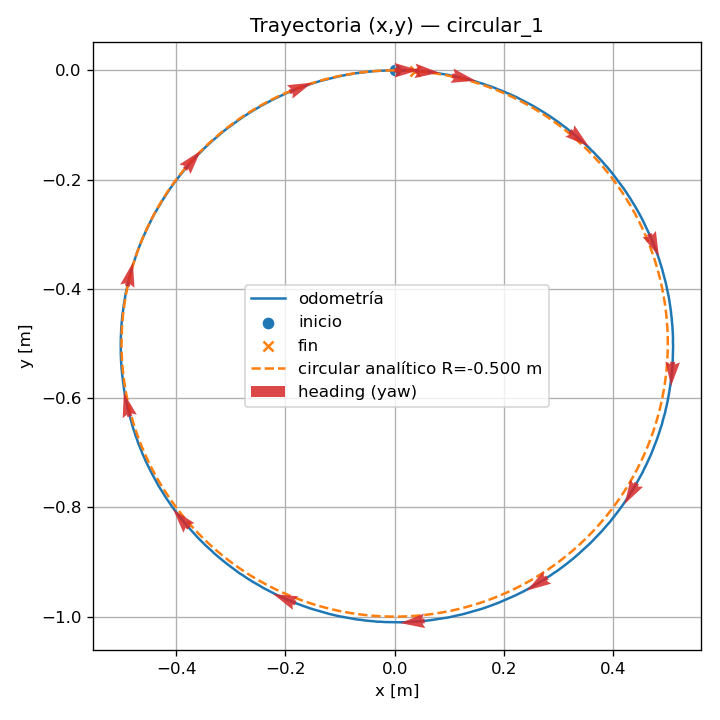
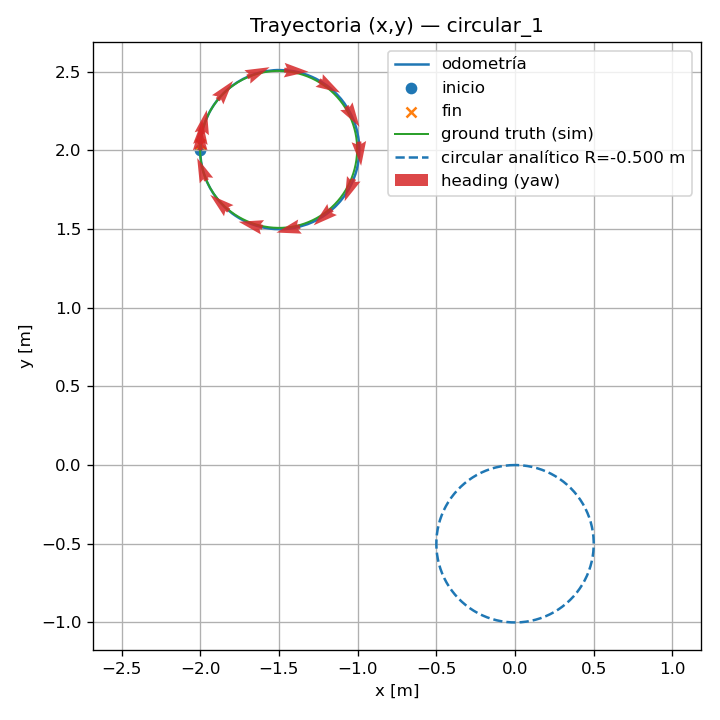
modulo 1: xy_path con GT overlay y transform a frame map
- plot_run.py: extract_gt_pose() reconstruye base_link_gt en map desde /tf
- extract_map_odom_offset() lee el offset map->odom del bag
- apply_map_odom_offset() traslada la odom al frame map para overlays
- Los 5 experimentos de modulo 1 (straffing, circular x2, constante x2)
  regenerados con odom vs GT vs analitico en el mismo cuadro.

Claude-Session: https://claude.ai/code/session_01C9iZpdEMchZ66QQeydNVvV

diff --git a/scripts/plot_run.py b/scripts/plot_run.py
@@ -6,9 +6,14 @@ Uso:
 
 Lee <dir>/manifest.yaml y <dir>/bag/, y escribe PNGs a <dir>/plots/.
 Los plots dependen de `cmd_source.tipo` en el manifest:
-  - open_loop_twist  → xy_path, body_velocity, odom_vs_cmd (módulo 1).
+  - open_loop_twist  → xy_path, body_velocity, odom_vs_cmd, wheel_velocities (módulo 1).
   - closed_loop_launch → módulo 1 + tracking_error, yaw_error, goal_pose_vs_pose
                           (módulo 2, requiere /robot/trajectory en el bag).
+
+xy_path dibuja la pose integrada por odometría. Si el bag contiene /tf con un
+TF `child=base_link_gt` (sim lo publica si grabamos /tf y /tf_static), suma como
+overlay la trayectoria ground truth reconstruida en frame `map` — la brecha
+odometría↔GT es exactamente el drift que motiva el EKF del módulo 3.
 
 Requiere: numpy, matplotlib, pyyaml, y las libs de ROS 2 Humble
 (rosbag2_py, rclpy.serialization, rosidl_runtime_py), por lo que hay que
@@ -41,6 +46,13 @@ except ImportError as e:
 
 REF_TRAJ_TOPIC = "/robot/trajectory"
 GOAL_POSE_TOPIC = "/goal_pose"
+TF_TOPICS = ("/tf", "/tf_static")
+
+# Frame del ground truth que publica CoppeliaSim. CLAUDE.md §"Simulator interface" lo
+# establece: el sim mantiene map → odom (identidad) y odom → base_link_gt como cadena
+# paralela a la que nuestra odometría integra (odom → base_link). Lo usamos SOLO para
+# evidencia (plots, métricas) — nunca como feedback de control (ídem consigna).
+GT_CHILD_FRAME = "base_link_gt"
 
 # Ruedas: convención del proyecto — MultiEncoderTicks.ticks[i] con i en 0..3 =
 # [FL, FR, RL, RR]. Los topics de velocidad angular comandada tienen esa nomenclatura.
@@ -196,6 +208,132 @@ def extract_wheel_encoder_velocities(entries):
     return result
 
 
+def extract_gt_pose(tf_entries, tf_static_entries):
+    """Reconstruye la pose GT en frame map a partir de /tf y /tf_static.
+
+    Devuelve (ts, xs, ys, yaws) con la pose de `base_link_gt` expresada en `map`.
+
+    Convención de la escena (ver CLAUDE.md §"Simulator interface"):
+      map → odom          (publicada por el sim; estática o ~6 Hz dinámica)
+      odom → base_link_gt (publicada ~10 Hz por el sim)
+
+    Componemos la cadena combinando /tf (dinámico) y /tf_static. Para cada
+    arista mantenemos la "última vista": esto maneja tanto el caso estático
+    puro como el caso en el que map→odom venga por /tf como en nuestro sim.
+
+    Si no aparece ningún TF con child == base_link_gt, devolvemos arrays vacíos y
+    el caller decide si avisar al usuario.
+    """
+    # Snapshot de la última TF vista para cada arista. Las estáticas se cargan
+    # primero; las dinámicas las van pisando si llegan (lo deseado).
+    latest = {}  # (parent, child) -> TransformStamped
+    for _, msg in tf_static_entries:
+        for tr in msg.transforms:
+            latest[(tr.header.frame_id, tr.child_frame_id)] = tr
+
+    def compose_to_map(parent, tx, ty, yaw):
+        """Si parent != map, camina hacia atrás por el `latest` hasta llegar a `map`.
+        Devuelve (x_map, y_map, yaw_map) o None si la cadena no se cierra."""
+        x, y, th = tx, ty, yaw
+        current = parent
+        for _ in range(6):  # tope de seguridad por si hay ciclo o cadena muy larga
+            if current == "map":
+                return x, y, th
+            # Buscamos la última TF <algo> → current conocida.
+            found = None
+            for (p, c), tr in latest.items():
+                if c == current:
+                    found = (p, tr)
+                    break
+            if found is None:
+                return None
+            p, tr = found
+            # pose_in_p = T_p_current · pose_in_current
+            c, s = math.cos(_tf_yaw(tr)), math.sin(_tf_yaw(tr))
+            x_new = tr.transform.translation.x + c * x - s * y
+            y_new = tr.transform.translation.y + s * x + c * y
+            th += _tf_yaw(tr)
+            x, y = x_new, y_new
+            current = p
+        return None
+
+    ts, xs, ys, yaws = [], [], [], []
+    for t_bag, msg in tf_entries:
+        # Primero pisamos el snapshot con todo lo que trae este TFMessage.
+        # Hacemos esto ANTES de procesar las entradas de GT en este mismo
+        # mensaje: si el sim publica map→odom en el mismo tick que odom→GT,
+        # queremos usar el map→odom actualizado.
+        for tr in msg.transforms:
+            latest[(tr.header.frame_id, tr.child_frame_id)] = tr
+        for tr in msg.transforms:
+            if tr.child_frame_id != GT_CHILD_FRAME:
+                continue
+            tx = tr.transform.translation.x
+            ty = tr.transform.translation.y
+            r = tr.transform.rotation
+            yaw = quat_to_yaw(r.x, r.y, r.z, r.w)
+            parent = tr.header.frame_id
+            if parent == "map":
+                x_m, y_m, yaw_m = tx, ty, yaw
+            else:
+                composed = compose_to_map(parent, tx, ty, yaw)
+                if composed is None:
+                    continue  # cadena no cerrable todavía (map→odom aún no llegó)
+                x_m, y_m, yaw_m = composed
+            ts.append(t_bag)
+            xs.append(x_m)
+            ys.append(y_m)
+            yaws.append(yaw_m)
+
+    return np.array(ts), np.array(xs), np.array(ys), np.array(yaws)
+
+
+def extract_map_odom_offset(tf_entries, tf_static_entries):
+    """Devuelve el offset (dx, dy, dyaw) de `map → odom` a partir del bag.
+
+    Asume que `map → odom` es constante durante la corrida (lo típico en
+    CoppeliaSim: la escena fija dónde arranca el robot y no toca esa TF
+    después). Si no aparece, devuelve None y el caller asume identidad.
+    """
+    # Buscamos en /tf_static primero (caso ideal), después en /tf.
+    for _, msg in tf_static_entries:
+        for tr in msg.transforms:
+            if tr.header.frame_id == "map" and tr.child_frame_id == "odom":
+                return (tr.transform.translation.x,
+                        tr.transform.translation.y,
+                        _tf_yaw(tr))
+    for _, msg in tf_entries:
+        for tr in msg.transforms:
+            if tr.header.frame_id == "map" and tr.child_frame_id == "odom":
+                return (tr.transform.translation.x,
+                        tr.transform.translation.y,
+                        _tf_yaw(tr))
+    return None
+
+
+def _tf_yaw(tr):
+    q = tr.transform.rotation
+    return quat_to_yaw(q.x, q.y, q.z, q.w)
+
+
+def apply_map_odom_offset(odom, offset):
+    """Aplica el offset (dx, dy, dyaw) de map→odom a cada pose de la odometría.
+
+    Devuelve una tupla igual a la que devuelve extract_odom pero con (x, y, yaw)
+    expresados en frame `map`. Útil para el overlay en xy_path contra referencia
+    y GT, que viven en `map`.
+    """
+    if offset is None:
+        return odom
+    dx, dy, dyaw = offset
+    ts, x, y, yaw, vx, vy, wz = odom
+    c, s = math.cos(dyaw), math.sin(dyaw)
+    x_map = dx + c * x - s * y
+    y_map = dy + s * x + c * y
+    yaw_map = yaw + dyaw
+    return (ts, x_map, y_map, yaw_map, vx, vy, wz)
+
+
 def extract_wheel_cmd(entries):
     """Lista de (t, std_msgs/Float64) → (ts, values). Devuelve arrays vacíos si no hay entries."""
     if not entries:
@@ -205,10 +343,10 @@ def extract_wheel_cmd(entries):
     return ts, values
 
 
-def plot_xy(odom, manifest, out_path: Path, ref_traj=None):
+def plot_xy(odom, manifest, out_path: Path, ref_traj=None, gt=None):
     ts, x, y, yaw, vx, vy, wz = odom
     fig, ax = plt.subplots(figsize=(6, 6))
-    ax.plot(x, y, label="odometría")
+    ax.plot(x, y, label="odometría", color="C0")
     if len(x):
         ax.scatter([x[0]], [y[0]], marker="o", label="inicio")
         ax.scatter([x[-1]], [y[-1]], marker="x", label="fin")
@@ -216,6 +354,16 @@ def plot_xy(odom, manifest, out_path: Path, ref_traj=None):
     # Todos los puntos que participan en el rango visible (para calcular el bbox cuadrado).
     xs_all = [np.asarray(x)]
     ys_all = [np.asarray(y)]
+
+    # Overlay del ground truth (si el bag incluyó /tf con base_link_gt). Es la pose
+    # real que conoce el simulador — la brecha con la odometría es exactamente el
+    # drift acumulado por integración, que motiva el módulo 3 (EKF).
+    if gt is not None:
+        ts_gt, xg, yg, _ = gt
+        if len(xg):
+            ax.plot(xg, yg, label="ground truth (sim)", color="C2", linewidth=1.2)
+            xs_all.append(np.asarray(xg))
+            ys_all.append(np.asarray(yg))
 
     # Overlay de la referencia de módulo 2 (si está disponible).
     if ref_traj is not None:
@@ -512,6 +660,7 @@ def main():
     closed_loop = is_closed_loop(manifest)
 
     topics = ["/robot/odometry", "/robot/cmd_vel", ENCODER_TOPIC] + WHEEL_CMD_TOPICS
+    topics += list(TF_TOPICS)  # para reconstruir la pose GT desde /tf.
     if closed_loop:
         topics += [REF_TRAJ_TOPIC, GOAL_POSE_TOPIC]
 
@@ -526,6 +675,31 @@ def main():
     ref_traj = extract_trajectory(msgs.get(REF_TRAJ_TOPIC, [])) if closed_loop else None
     goals = extract_goal_pose(msgs.get(GOAL_POSE_TOPIC, [])) if closed_loop else None
 
+    tf_dyn = msgs.get("/tf", [])
+    tf_sta = msgs.get("/tf_static", [])
+    gt = extract_gt_pose(tf_dyn, tf_sta)
+    if not len(gt[0]):
+        print(
+            "Aviso: no se encontró ninguna TF con child='base_link_gt' en el bag — el "
+            "overlay de ground truth no se dibuja. Agregá /tf y /tf_static a "
+            "topics_grabados del manifest si lo querés.",
+            file=sys.stderr,
+        )
+        gt = None
+
+    # Trasladamos la odometría al frame `map` para que el plot sea comparable con
+    # la referencia (viene en map) y el GT (idem). Si map→odom no se encuentra,
+    # se asume identidad.
+    map_odom = extract_map_odom_offset(tf_dyn, tf_sta)
+    if map_odom is None:
+        print(
+            "Aviso: no se encontró TF `map → odom` en el bag — se grafica la "
+            "odometría en frame `odom` (origen en el inicio de la corrida). Si la "
+            "referencia es en `map`, va a aparecer con un offset constante.",
+            file=sys.stderr,
+        )
+    odom_in_map = apply_map_odom_offset(odom, map_odom)
+
     enc_wheels = extract_wheel_encoder_velocities(msgs.get(ENCODER_TOPIC, []))
     cmd_wheels = {i: extract_wheel_cmd(msgs.get(topic, []))
                   for i, topic in enumerate(WHEEL_CMD_TOPICS)}
@@ -537,14 +711,18 @@ def main():
         )
 
     print("Generando plots...")
-    plot_xy(odom, manifest, plots_dir / "xy_path.png", ref_traj=ref_traj)
+    # xy_path y los plots de módulo 2 (tracking_error, yaw_error) usan pose en
+    # map: así la odometría, la referencia y el GT caen en el mismo frame y las
+    # distancias tienen sentido físico. El resto (body_velocity, odom_vs_cmd,
+    # wheel_velocities) vive en el marco del robot/odom y no cambia.
+    plot_xy(odom_in_map, manifest, plots_dir / "xy_path.png", ref_traj=ref_traj, gt=gt)
     plot_body_velocity(odom, cmd, plots_dir / "body_velocity.png", slug)
     plot_odom_vs_cmd(odom, cmd, plots_dir / "odom_vs_cmd.png", slug)
     plot_wheel_velocities(enc_wheels, cmd_wheels, plots_dir / "wheel_velocities.png", slug)
 
     if closed_loop and ref_traj is not None:
-        plot_tracking_error(odom, ref_traj, plots_dir / "tracking_error.png", slug)
-        plot_yaw_error(odom, ref_traj, plots_dir / "yaw_error.png", slug)
+        plot_tracking_error(odom_in_map, ref_traj, plots_dir / "tracking_error.png", slug)
+        plot_yaw_error(odom_in_map, ref_traj, plots_dir / "yaw_error.png", slug)
     elif closed_loop and ref_traj is None:
         print(
             f"Aviso: cmd_source es closed_loop_launch pero el bag no tiene {REF_TRAJ_TOPIC} "
@@ -553,7 +731,8 @@ def main():
         )
 
     if closed_loop and goals is not None and len(goals[0]):
-        plot_goal_pose_vs_pose(odom, goals, plots_dir / "goal_pose_vs_pose.png", slug)
+        # goal_pose viene en map; comparamos contra la odometría también en map.
+        plot_goal_pose_vs_pose(odom_in_map, goals, plots_dir / "goal_pose_vs_pose.png", slug)
 
     print(f"Listo: {plots_dir}")
 
